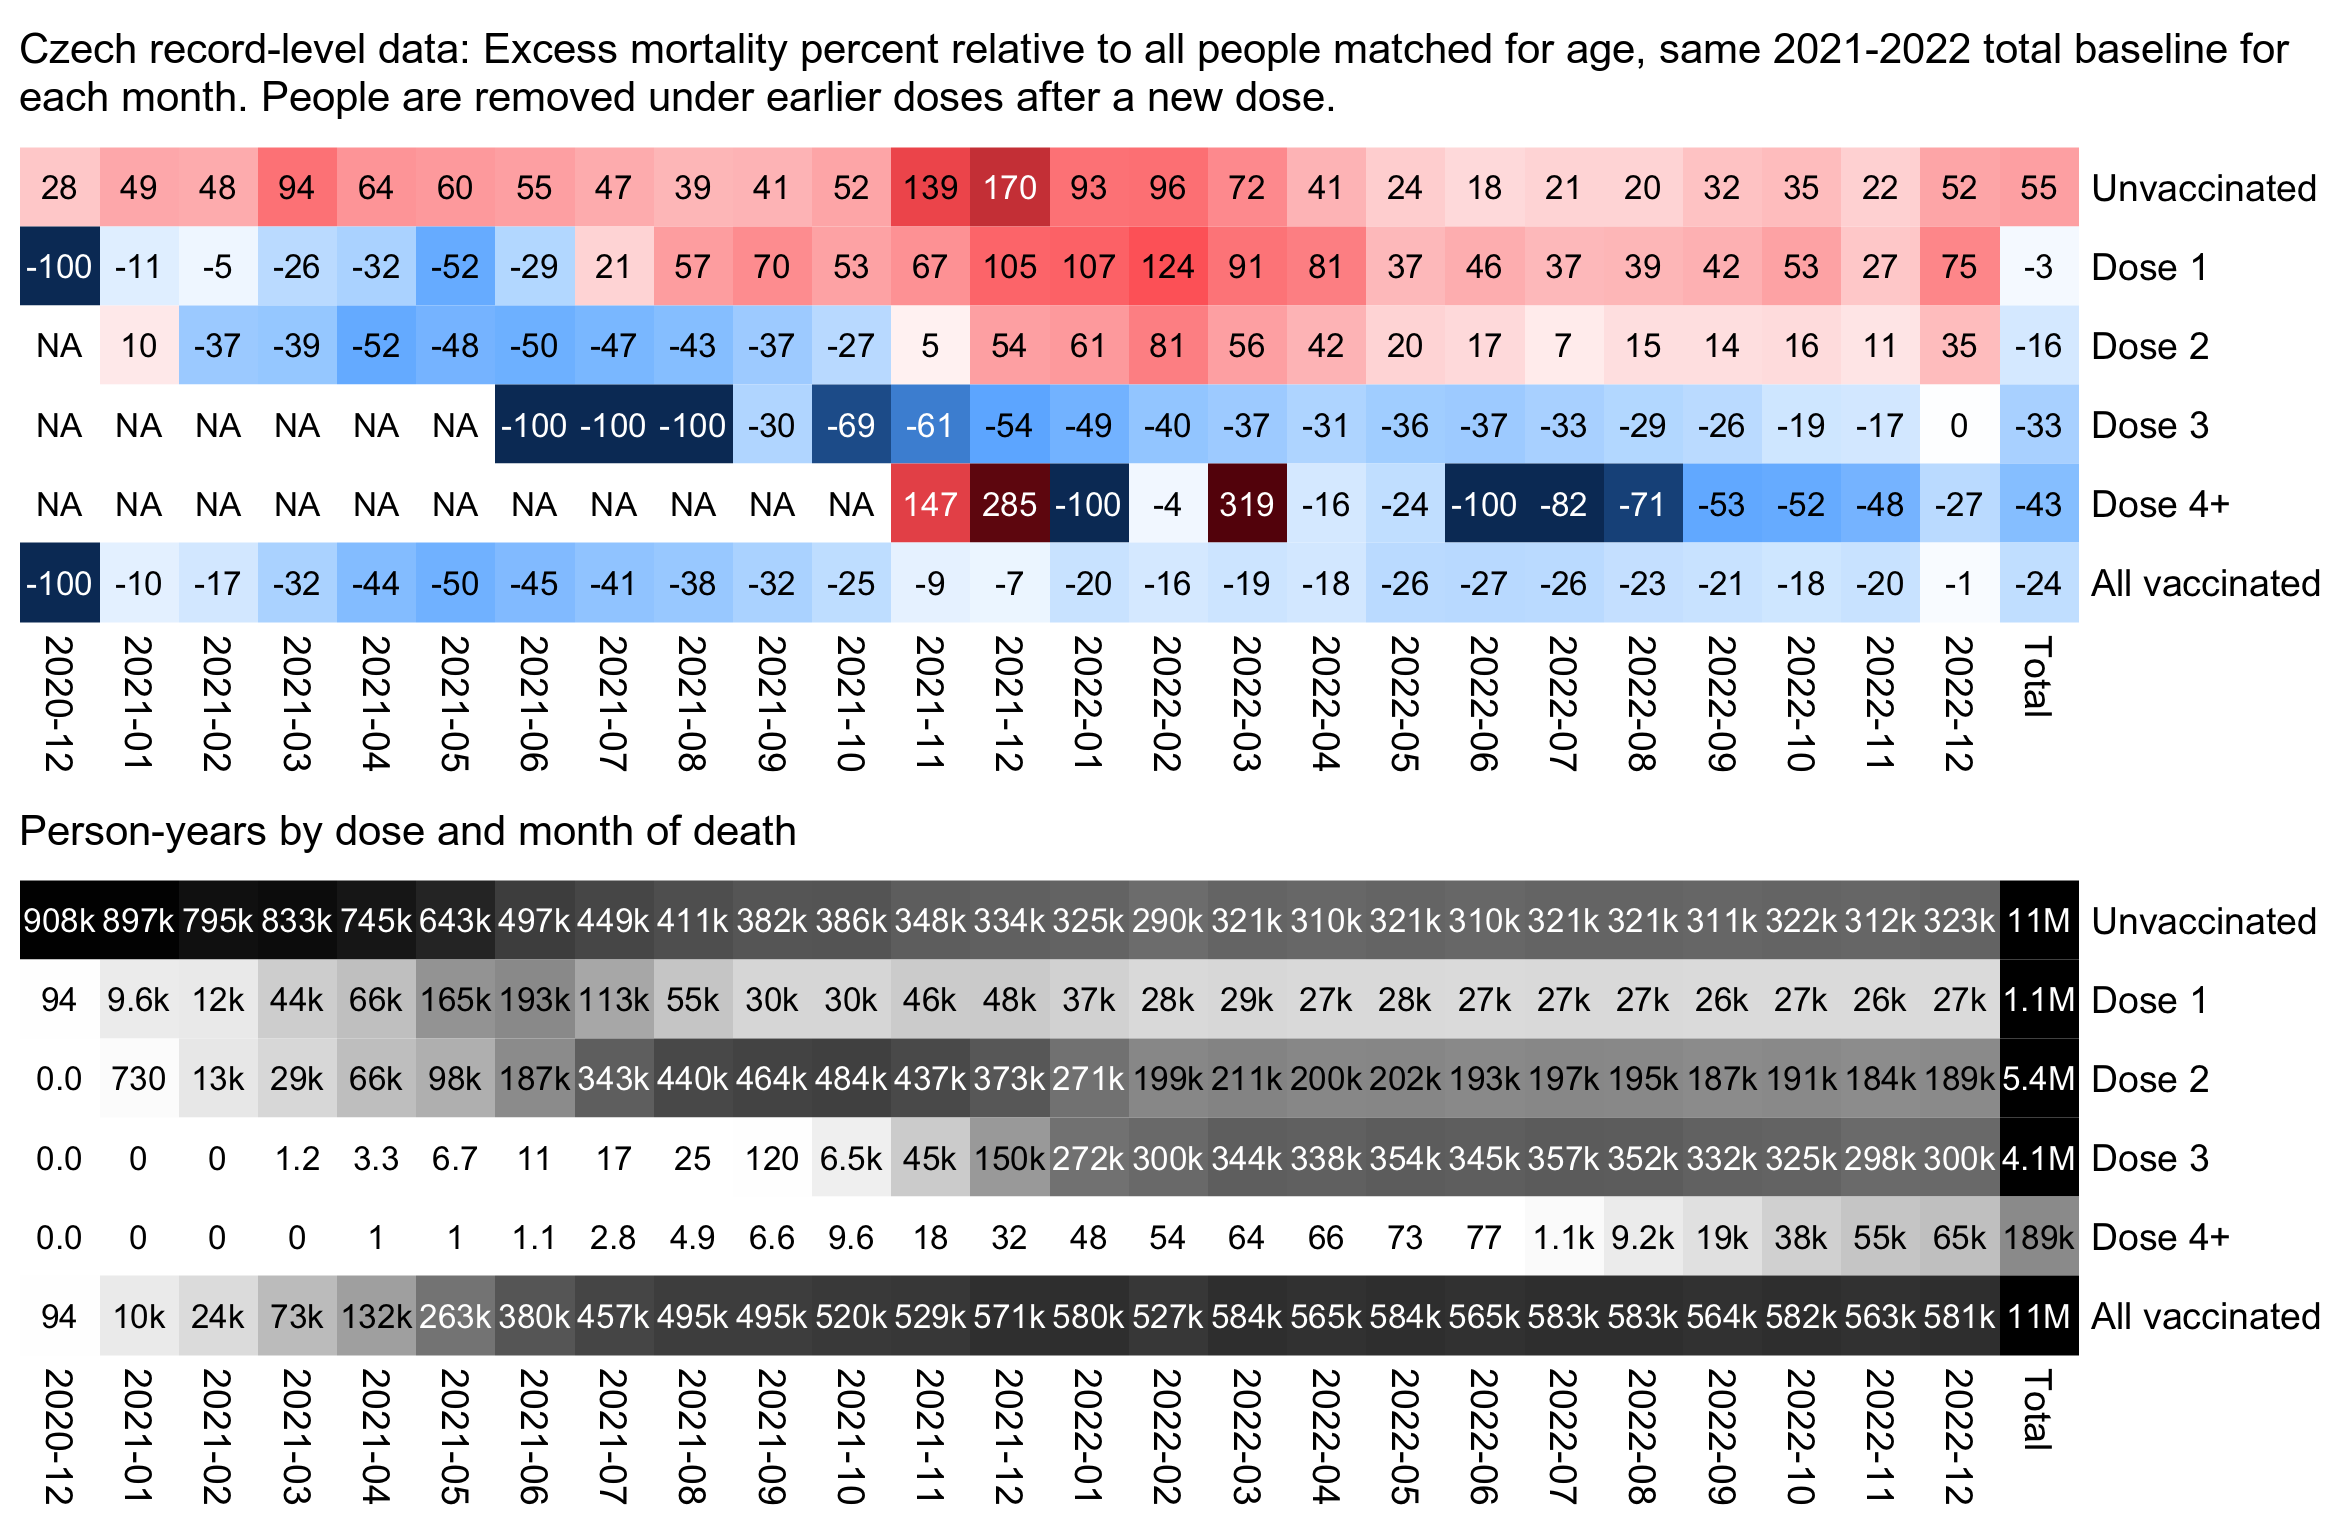
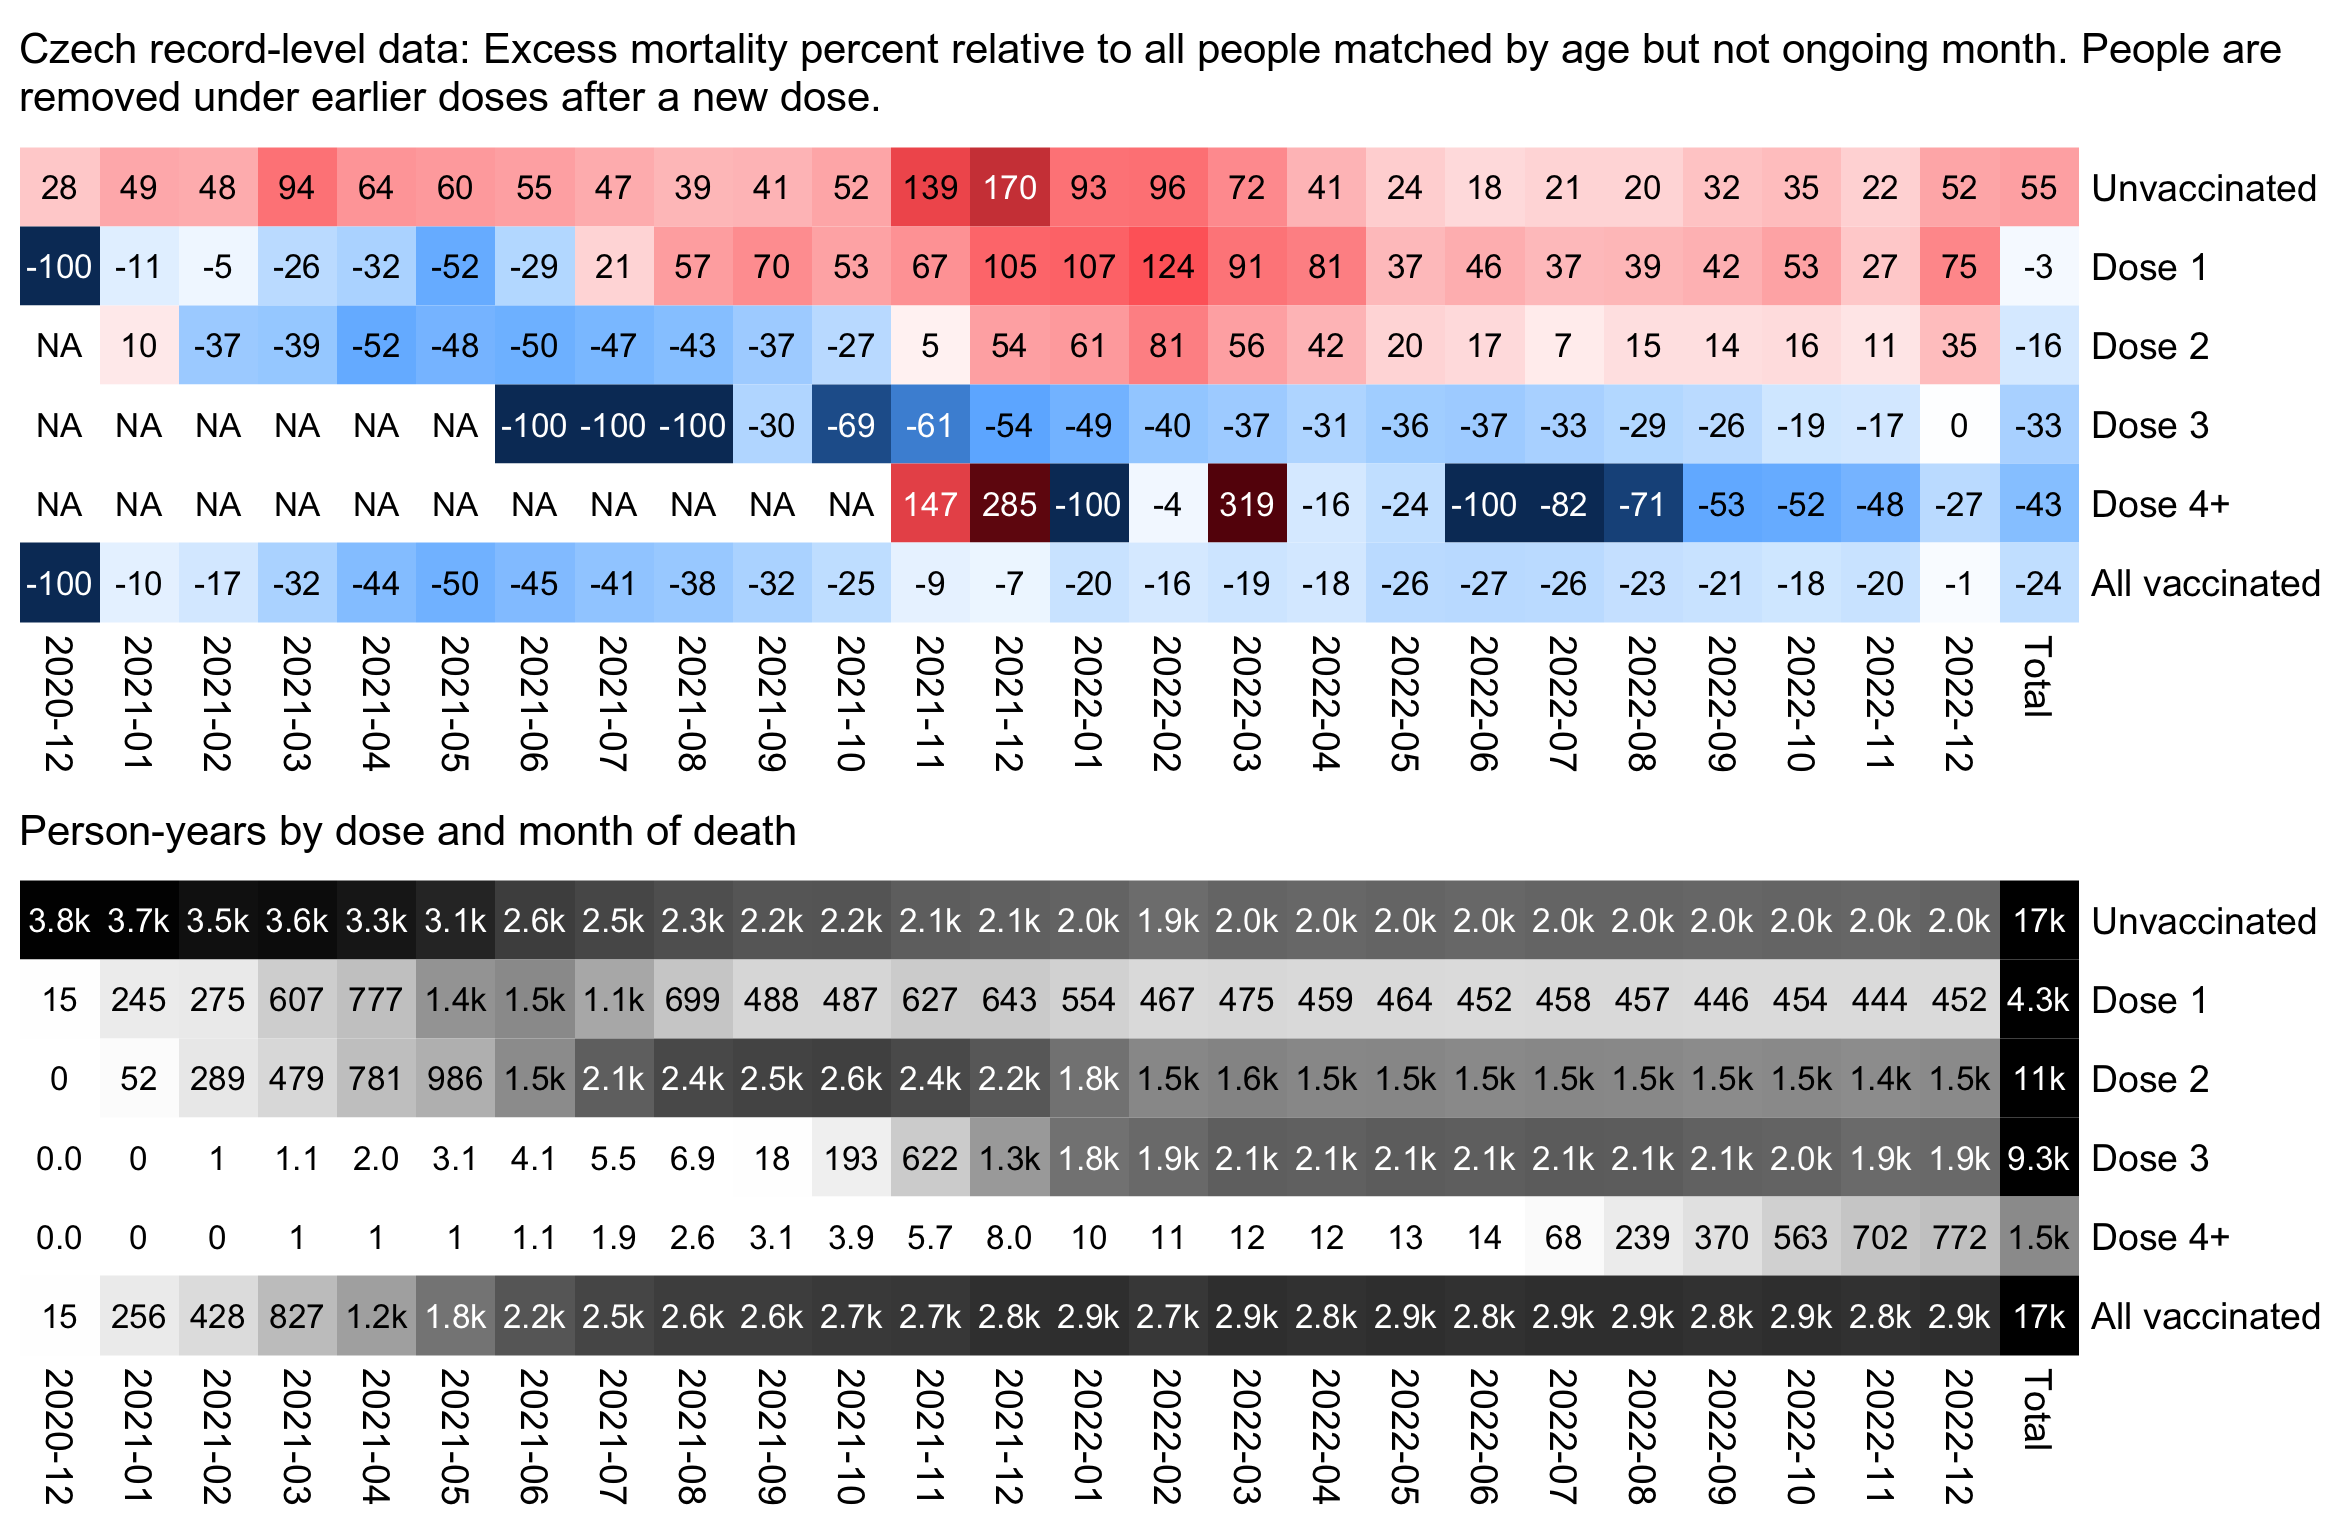
a

diff --git a/czech.html b/czech.html
@@ -89,6 +89,7 @@ blockquote blockquote blockquote,blockquote blockquote .quote,blockquote .quote 
 <li><a href=#Excess_mortality_by_weeks_after_vaccination>Excess mortality by weeks after vaccination</a></li>
 <li><a href=#Excess_CMR_percent_in_vaccinated_people_relative_to_unvaccinated_people>Excess CMR percent in vaccinated people relative to unvaccinated people</a></li>
 <li><a href=#Statistics_by_batch>Statistics by batch</a></li>
+<li><a href=#Excess_mortality_normalized_by_month_of_vaccination_and_dose_number>Excess mortality normalized by month of vaccination and dose number</a></li>
 </ul>
 
 <h2>
@@ -492,13 +493,14 @@ ggsave(&quot;1.png&quot;,width=5,height=3.3,dpi=400)</pre>
 <pre>library(data.table)
 
 b=fread(&quot;http://sars2.net/f/czbuckets.csv.gz&quot;,showProgress=F)[month&gt;=&quot;2020-12&quot;]
-b=b[,.(alive=sum(alive),dead=sum(dead)),by=.(month,age,dose=ifelse(dose==0,&quot;Unvaccinated&quot;,paste0(&quot;Dose &quot;,ifelse(dose&gt;=4,&quot;4+&quot;,dose))))]
-b=rbind(b,b[,.(alive=sum(alive),dead=sum(dead),month=&quot;Total&quot;),.(age,dose)])
+b[,dose:=ifelse(dose==0,&quot;Unvaccinated&quot;,paste0(&quot;Dose &quot;,ifelse(dose&gt;=4,&quot;4+&quot;,dose)))]
 
-me=merge(b,b[,.(base=sum(dead)/sum(alive)),.(age,month)]) # different baseline for each month
+me=merge(b,b[,.(base=sum(dead)/sum(alive)),.(age,month)]) # use different baseline for each month
 # me=merge(b,b[,.(base=sum(dead)/sum(alive)),age]) # use 2021-2022 total as baseline for each month
+
 a=me[,base:=base*alive][,.(alive=sum(alive),dead=sum(dead),base=sum(base)),.(month,dose)]
-a=rbind(a,a[dose!=&quot;Unvaccinated&quot;][,.(alive=sum(alive),dead=sum(dead),base=sum(base),dose=&quot;All vaccinated&quot;),month])
+a=rbind(a,a[,.(dead=sum(dead),alive=sum(alive),base=sum(base),month=&quot;Total&quot;),dose])
+a=rbind(a,a[dose!=&quot;Unvaccinated&quot;,.(dead=sum(dead),alive=sum(alive),base=sum(base),dose=&quot;All vaccinated&quot;),month])
 
 a$dose=factor(a$dose,c(&quot;Unvaccinated&quot;,paste0(&quot;Dose &quot;,1:3),&quot;Dose 4+&quot;,&quot;All vaccinated&quot;))
 
@@ -528,7 +530,7 @@ pheatmap::pheatmap(mpop,filename=&quot;i2.png&quot;,display_numbers=kimi(mpop),
   breaks=seq(0,maxcolor2,,256),
   sapply(seq(1,0,,256),\(i)rgb(i,i,i)))
 
-system(&quot;w=`identify -format %w i1.png`;pad=38;convert -gravity northwest -pointsize 42 -font Arial \\( -splice x24 -size $[w-pad]x caption:&#39;Czech record-level data: Excess mortality percent relative to all people matched for age, different baseline for each month. People are removed under earlier doses after a new dose.&#39; -extent $[w-pad]x -gravity center \\) i1.png -gravity northwest \\( -size $[w-40]x caption:&#39;Person-years by dose and month of death&#39; -extent $[w-pad]x -gravity center \\) i2.png -append 1.png&quot;)</pre>
+system(&quot;w=`identify -format %w i1.png`;pad=38;convert -gravity northwest -pointsize 42 -font Arial \\( -splice x24 -size $[w-pad]x caption:&#39;Czech record-level data: Excess mortality percent relative to all people matched by age and ongoing month. People are removed under earlier doses after a new dose.&#39; -extent $[w-pad]x -gravity center \\) i1.png -gravity northwest \\( -size $[w-40]x caption:&#39;Person-years by dose and month of death&#39; -extent $[w-pad]x -gravity center \\) i2.png -append 1.png&quot;)</pre>
 <h2>
 <a href=#Triangle_plot_for_excess_mortality_by_month_of_vaccination_and_month_of_death id=Triangle_plot_for_excess_mortality_by_month_of_vaccination_and_month_of_death>Triangle plot for excess mortality by month of vaccination and month of death</a>
 </h2>
@@ -2276,6 +2278,55 @@ theme(axis.text=element_text(size=8,color=&quot;black&quot;),
   plot.subtitle=element_text(size=8,margin=margin(0,0,4,0)),
   plot.title=element_text(size=9,face=&quot;bold&quot;,margin=margin(2,,5,0)))
 ggsave(&quot;1.png&quot;,width=7,height=4.8,dpi=340)</pre>
+<h2>
+<a href=#Excess_mortality_normalized_by_month_of_vaccination_and_dose_number id=Excess_mortality_normalized_by_month_of_vaccination_and_dose_number>Excess mortality normalized by month of vaccination and dose number</a>
+</h2>
+<p>I thought that maybe the reason why Janssen vaccines had such high excess mortality could've been if for example it was common for people in long-term care to receive Janssen vaccines, so then Janssen vaccines might have had high excess mortality only in elderly age groups but not in younger age groups. However that wasn't the case, because Janssen vaccines also got high excess mortality in younger age groups:</p>
+<pre>&gt; download.file(&quot;http://sars2.net/f/bucketsbatchkeep.csv.xz&quot;,&quot;bucketsbatchkeep.csv.xz&quot;)
+&gt; buck=fread(&quot;xz -dc czbucketsbatchkeep.csv.xz&quot;)
+&gt; b=buck[,age:=pmin(age,95)]
+&gt; me=merge(b[type!=&quot;&quot;&amp;type!=&quot;Other&quot;],b[,.(base=sum(dead)/sum(alive)),.(month,age)])[,base:=base*alive]
+&gt; a=me[,.(dead=sum(dead),base=sum(base)),.(age=age%/%10*10,type)]
+&gt; a=rbind(a,a[,.(dead=sum(dead),base=sum(base),type=&quot;Total&quot;),age])
+&gt; a=rbind(a,a[,.(dead=sum(dead),base=sum(base),age=&quot;Total&quot;),type])
+&gt; a[,tapply(round((dead/base-1)*100),a[,2:1],c)]
+             age
+type             0   10  20   30  40  50  60  70  80  90 Total
+  AstraZeneca   NA  768  15   45  39  31  11   1   5   6     4
+  Janssen       NA -100  -4   39  44  41  44  42  38  22    38
+  Moderna     -100    3   9   -4  11  10  14   3  11   9     8
+  Novavax       NA -100 205 -100 -59  -6  10 -60 -18 -32   -26
+  Pfizer       -52  -19 -18  -25 -26 -25 -22 -16 -14  -6   -16
+  Total        -52  -18 -15  -20 -20 -19 -15 -11  -9  -3   -10</pre>
+<p>However earlier on this page I pointed out that first doses from Janssen vaccines were given much later on average than first doses from Moderna and Pfizer vaccines, and other vaccine manufacturers also had high excess mortality among the late vaccinees who were late to get the first dose. Janssen vaccines also had the largest percentage of first doses out of all doses (unlike earlier I'm now also counting Pfizer's Omicron vaccines under Pfizer, which reduces the percentage of first doses among Pfizer vaccines):</p>
+<pre>&gt; m=buck[type!=&quot;&quot;,.N,.(dose,type)][,xtabs(N~dose+type)]
+&gt; round(t(m)/colSums(m)*100) # percentage of dose number by vaccine type
+             dose
+type           1  2  3  4  5  6  7
+  AstraZeneca 46 52  2  0  0  0  0
+  Janssen     86  5  9  0  0  0  0
+  Moderna     36 37 25  2  0  0  0
+  Novavax     43 41  8  7  0  0  0
+  Other       52 45  3  0  0  0  0
+  Pfizer      37 36 23  3  0  0  0</pre>
+<p>But anyway, now I tried to calculate excess mortality relative to the mortality rate of people who got the same dose number the same month, and not relative to the mortality rate during the ongoing month. So for each combination of the three variables of vaccination month, dose number, and 5-year age group, I calculated the expected deaths for the group by multiplying the person-days of the group with the mortality rate among all people in the record-level data who had the same combination of the three variables.</p>
+<p>For example people who got vaccinated in May 2021 generally spent a similar amount of time during different months up to the end of 2022, because only a small percentage of people in the dataset died, so I think it's not necessary to perform any additional adjustment for seasonal variation in mortality.</p>
+<p>I used 5-year age groups instead of single years of age to calculate the baseline mortality rate, because for example there were only a small number of people who got the first dose in early 2022, so using single-year age groups would've resulted in large fluctuations in the baseline mortality rate during some vaccination months.</p>
+<p>However now with my new method of adjusting the baseline for the month of vaccination, Janssen vaccines actually got a lower total percentage of excess deaths than Moderna vaccines:</p>
+<pre>&gt; b=buck[,age:=pmin(age%/%5*5,95)]
+&gt; me=merge(b[type!=&quot;&quot;&amp;type!=&quot;Other&quot;],b[,.(base=sum(dead)/sum(alive)),.(vaxmonth,dose,age)])[,base:=base*alive]
+&gt; a=me[,.(dead=sum(dead),base=sum(base)),.(age=age%/%10*10,type)]
+&gt; a=rbind(a,a[,.(dead=sum(dead),base=sum(base),type=&quot;Total&quot;),age])
+&gt; a=rbind(a,a[,.(dead=sum(dead),base=sum(base),age=&quot;Total&quot;),type])
+&gt; a[,tapply(round((dead/base-1)*100),a[,1:2],c)]
+             age
+type             0   10  20   30  40  50  60  70  80  90 Total
+  AstraZeneca   NA   54 -22   20  51  47  27  13   6   3    10
+  Janssen       NA -100  18   44  22  14  19   9   6   0    11
+  Moderna     -100  -12  18   14  33  27  27  17  21  13    19
+  Novavax       NA -100  83 -100 -80 -40 -23 -80 -58 -37   -57
+  Pfizer         0    1  -2   -4  -6  -6  -7  -6  -4  -3    -5
+  Total          0    0   0    0   0   0   0   0   0   0     0</pre>
 <script>
 let q=document.querySelectorAll('a,code,pre')
 for(let i=0;e=q[i];i++)e.innerHTML=e.innerHTML.replace(/(\w{60,})/g,x=>x.replace(/./g,"$&<wbr>")).replace(/([\041-\045\047-\057\072\075\077-\100\133-\137\173-\176])/g,"$1<wbr>")
